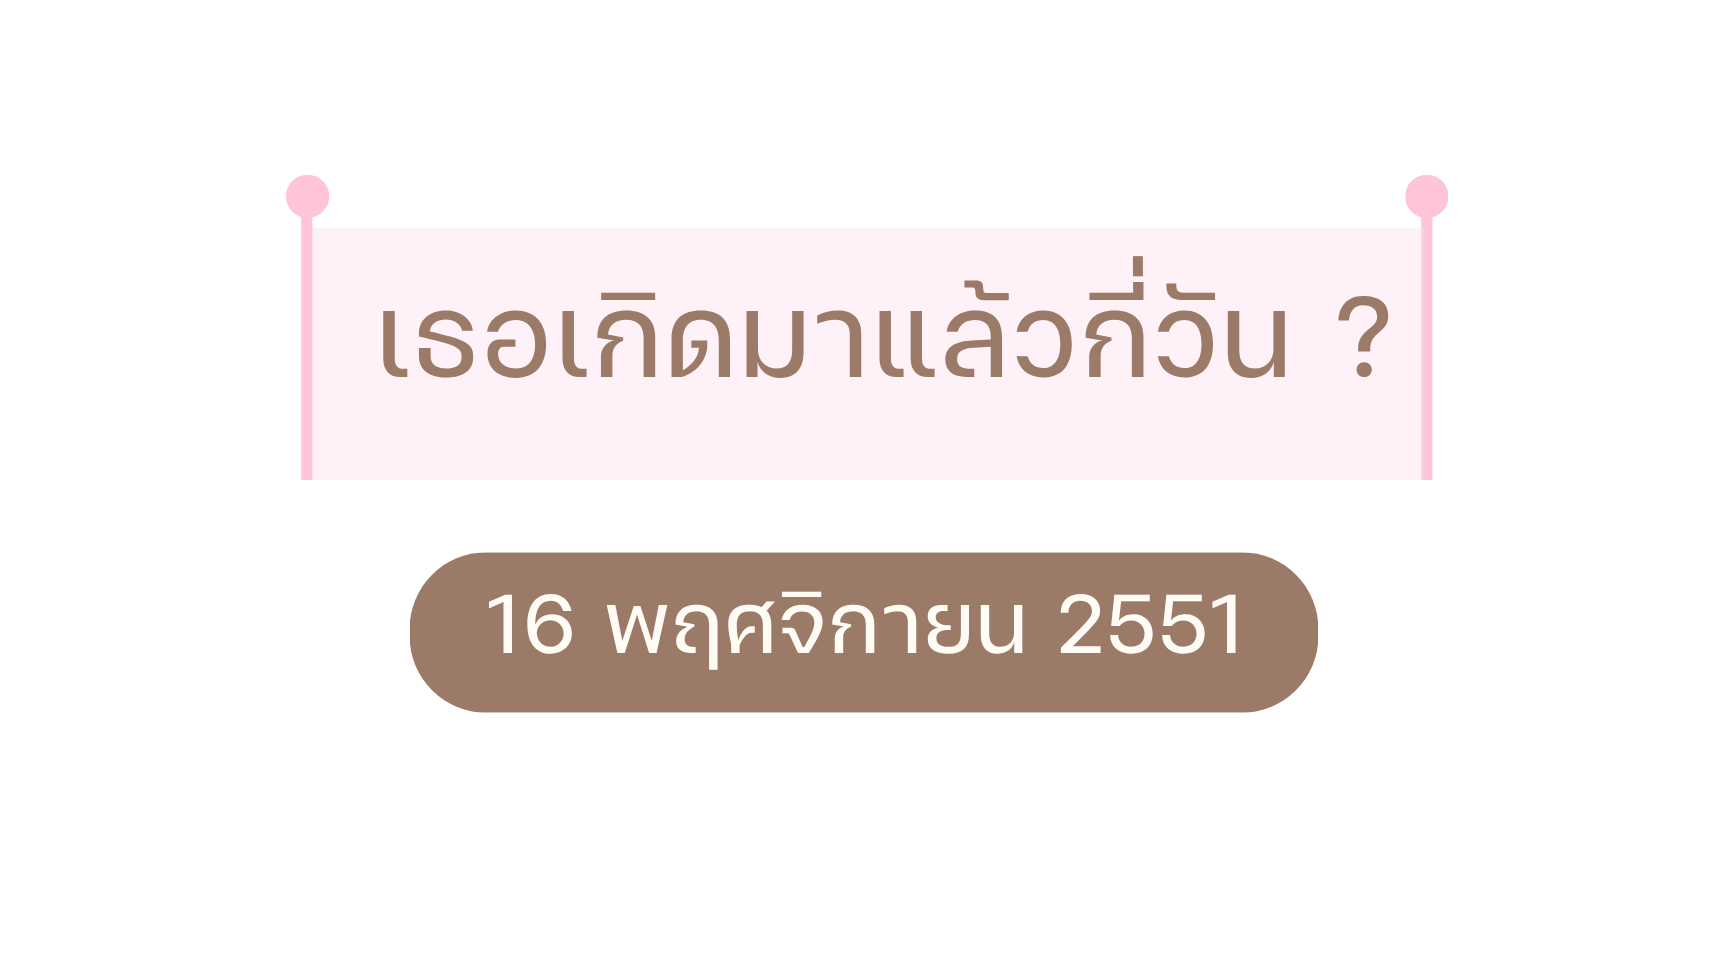
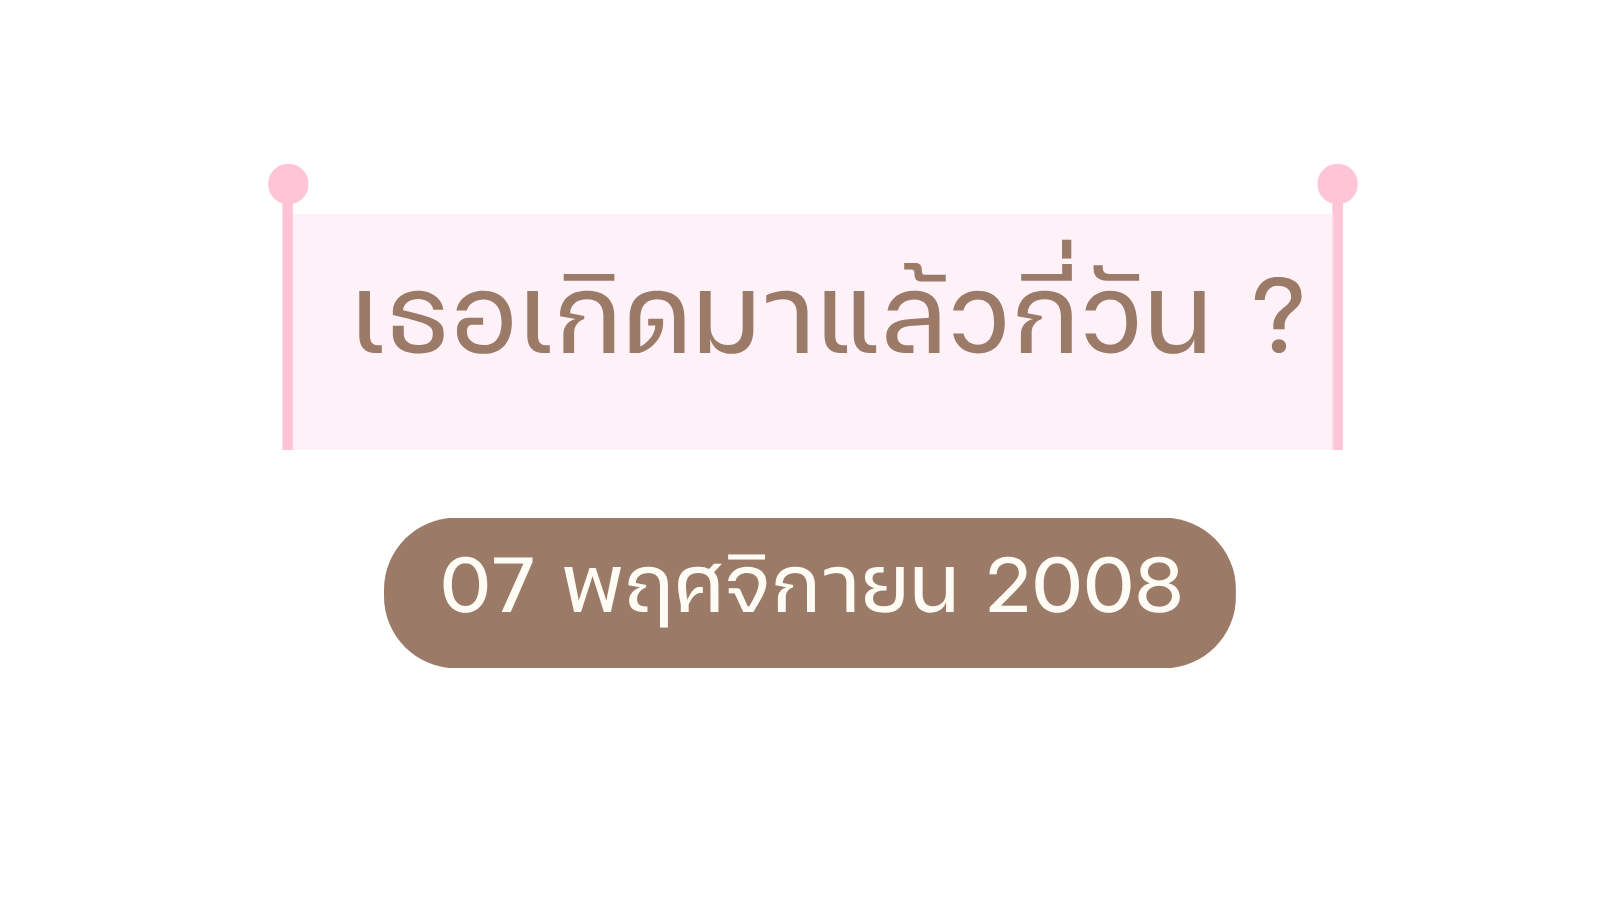
upload website

Changed region(s): [[0.2778, 0.6222, 0.7407, 0.6844], [0.3395, 0.3111, 0.3704, 0.3422]]

diff --git a/day.html b/day.html
@@ -1230,7 +1230,7 @@
 
     const birthDate =
       new Date(
-        "2008-11-16T00:00:00"
+        "2008-11-07T00:00:00"
       );
 
 
